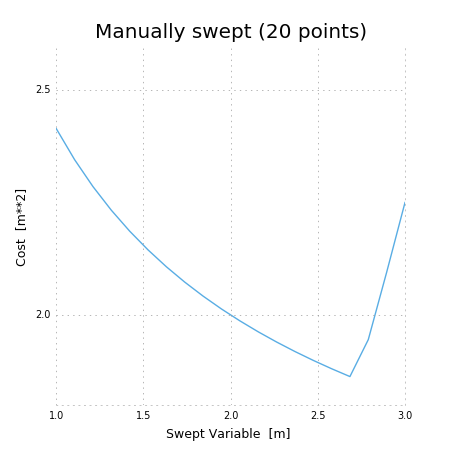
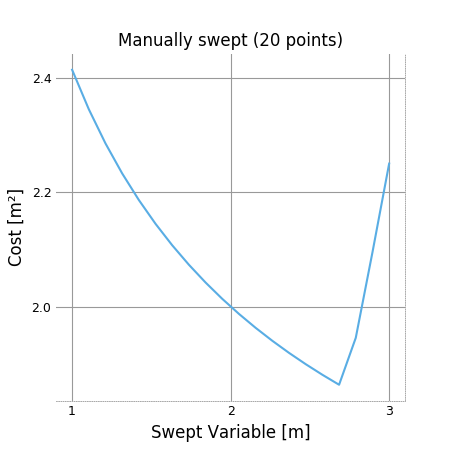
unit the axes

diff --git a/gpkit/interactive/plot_sweep.py b/gpkit/interactive/plot_sweep.py
@@ -24,7 +24,7 @@ def format_and_label_axes(var, posys, axes, ylabel=True):
         if ylabel:
             if hasattr(posy, "key"):
                 ylabel = (posy.key.descr.get("label", posy.key.name)
-                          + " " + posy.key.unitstr(dimless="-"))
+                          + " [%s]" % posy.key.unitstr(dimless="-"))
             else:
                 ylabel = str(posy)
             ax.set_ylabel(ylabel)
@@ -42,7 +42,7 @@ def format_and_label_axes(var, posys, axes, ylabel=True):
             i.set_color("0.6")
             i.set_linestyle("dotted")
     xlabel = (var.key.descr.get("label", var.key.name)
-              + " " + var.key.unitstr(dimless="-"))
+              + " [%s]" % var.key.unitstr(dimless="-"))
     ax.set_xlabel(xlabel)  # pylint: disable=undefined-loop-variable
     plt.locator_params(nbins=4)
     plt.subplots_adjust(wspace=0.15)
